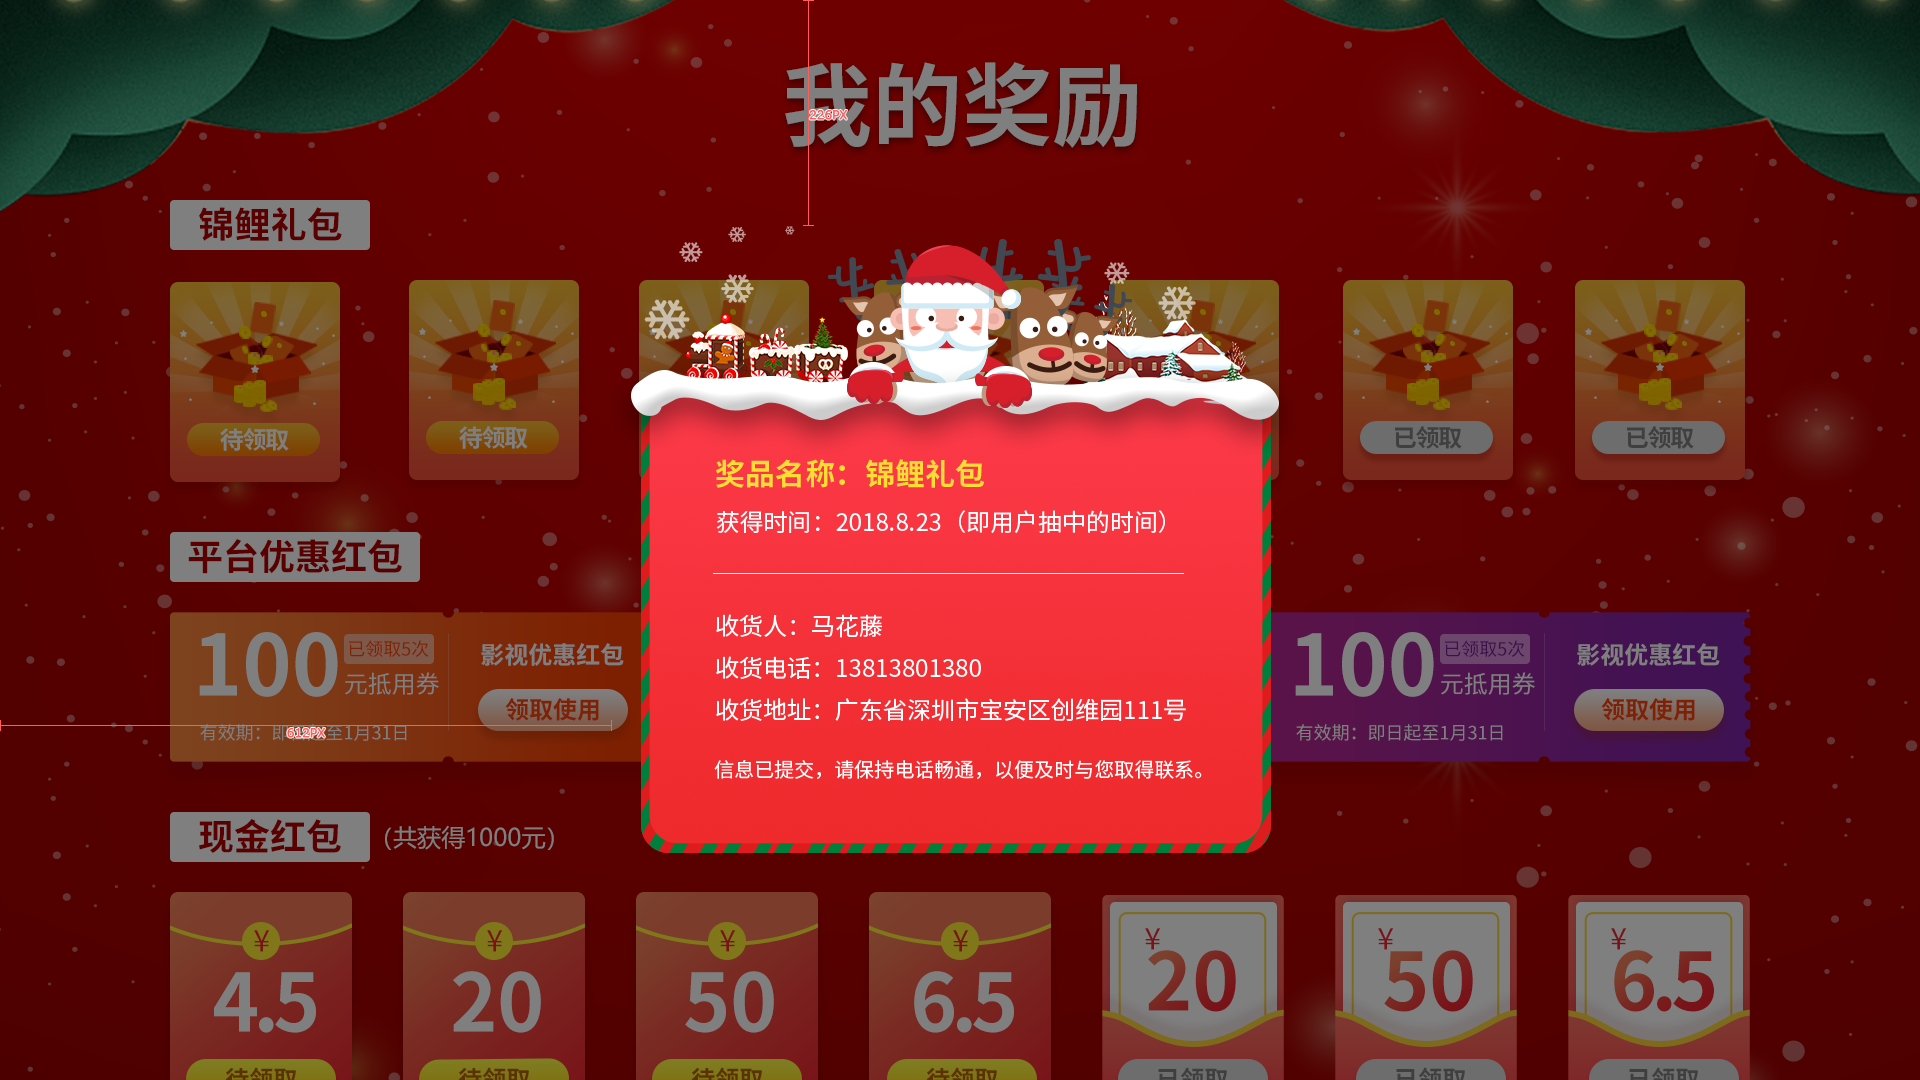
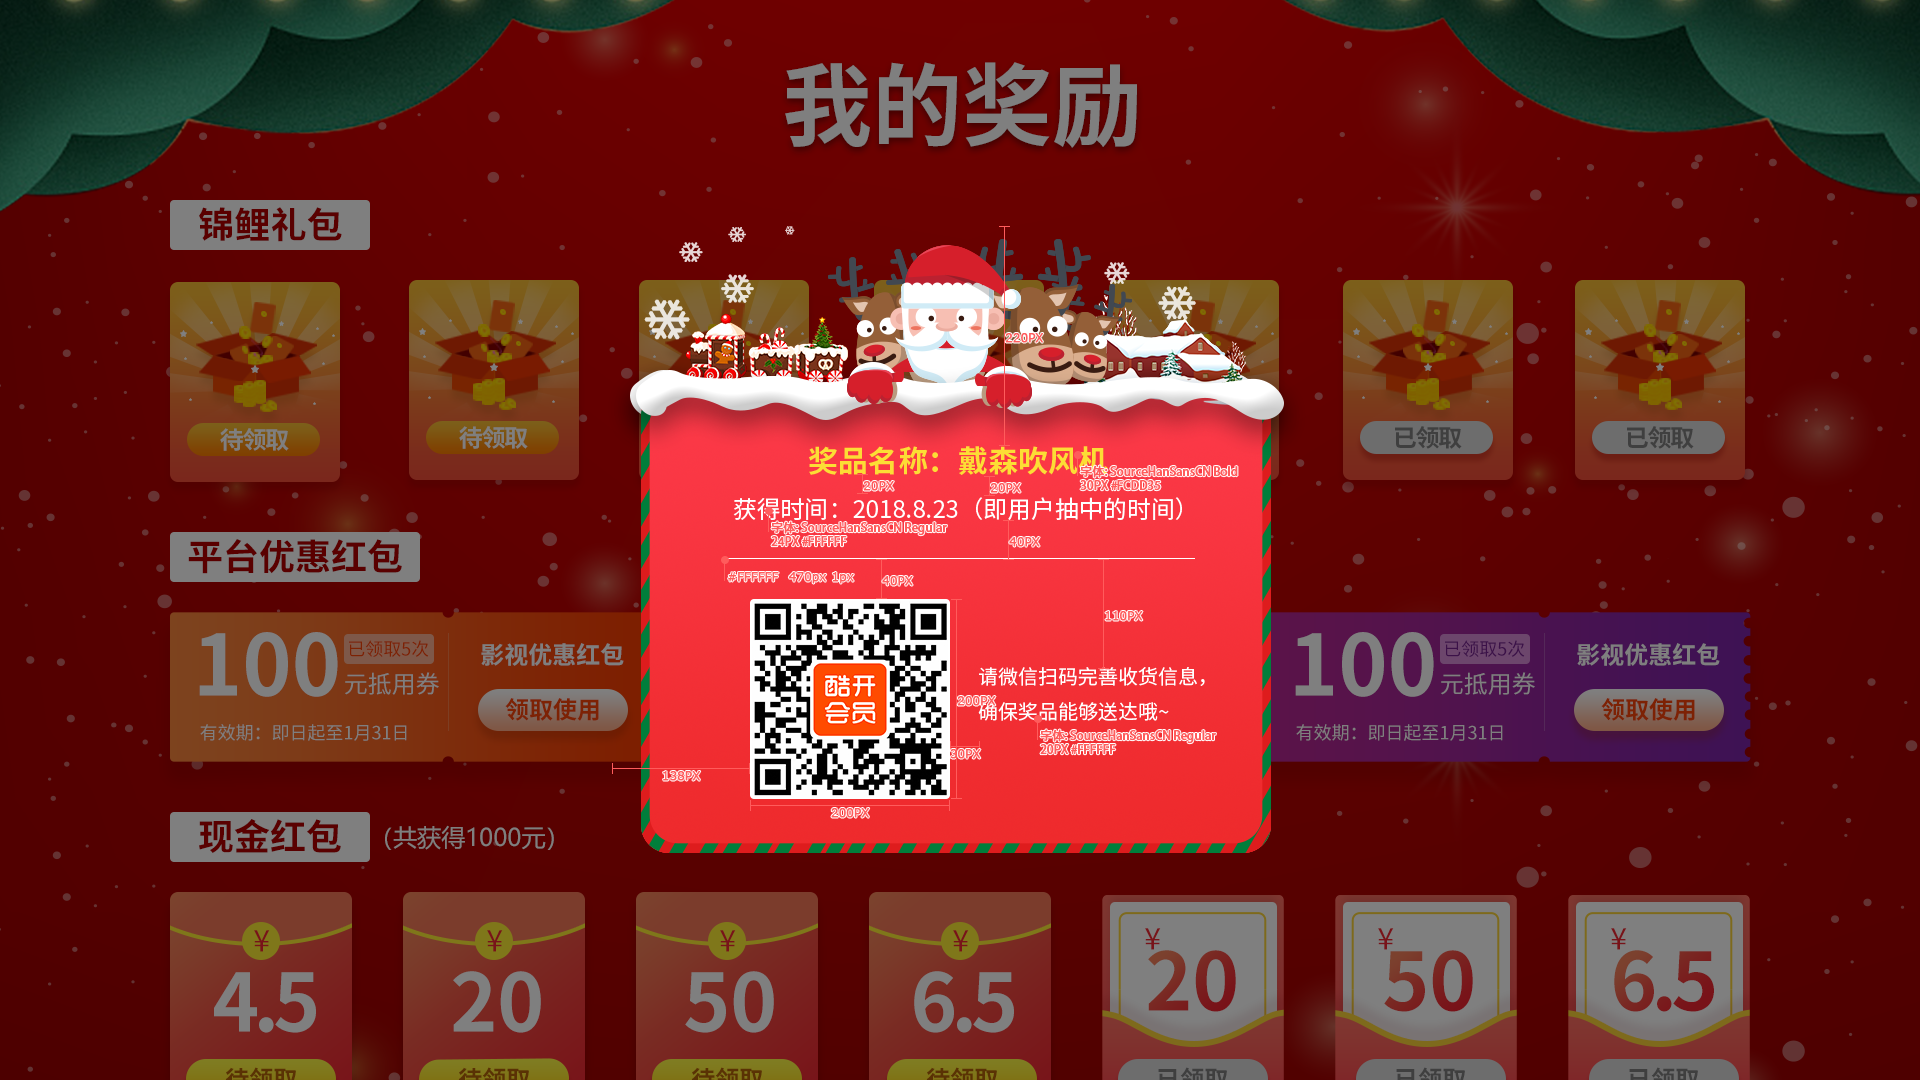
update: 2018双旦活动-我的礼物-弹窗对话框备份

diff --git a/activities/XmasNewYear2018/sourceCode/myaward.html b/activities/XmasNewYear2018/sourceCode/myaward.html
@@ -218,15 +218,36 @@
 			
 			<!--三、 弹窗对话框 start -->
 			<div id="toastDialogId" class="toastDialogClass">
-				<!--1.已领取页面-->
-				<div class="giftCollectedDialogClass">
-					<div class="giftTitleClass"><span>奖品名称: </span><span>锦鲤礼包</span></div>
-					<div class="giftTimeClass"><span>获得时间: </span><span>2018.8.23</span></div>
+				<!-- 1.1.已领取页面(有收货人信息等，用于：锦鲤，实物， ) -->
+				<div id="gitCollectedDialogAId" class="giftToastDialogClass">
+					<div class="giftTitleClass">奖品名称:&nbsp;&nbsp;<span>锦鲤礼包</span></div>
+					<div class="giftTimeClass">获得时间 : <span>2018.8.23</span></div>
 					<hr />
-					<div class="giftReceiverNameClass"><span>收货人: </span><span>马花藤</span></div>
-					<div class="giftReceiverTelClass"><span>收货电话: </span><span>13813801380</span></div>
-					<div class="giftReceiverAddrClass"><span>收货地址: </span><span>广东省深圳市宝安区创维园111号</span></div>
-					<div>信息已提交，请保持电话畅通，以便及时与您取得联系。</div>
+					<div class="giftReceiverNameClass">收货人 : <span>马花藤</span></div>
+					<div class="giftReceiverTelClass">收货电话 : <span>13813801380</span></div>
+					<div class="giftReceiverAddrClass">收货地址 : <span>广东省深圳市宝安区创维园111号</span></div>
+					<div class="giftReceiverTipClass">信息已提交，请保持电话畅通，以便及时与您取得联系。</div>
+				</div>
+				<!-- 1.2.已领取页面(有继续参与按钮，用于：红包， ) -->
+				<div id="gitCollectedDialogBId" class="giftToastDialogClass">
+					<div class="giftTitleClass">奖品名称:&nbsp;&nbsp;微信红包<span>4.5</span>元</div>
+					<div class="giftTimeClass">获得时间 : <span>2018.8.23</span></div>
+					<hr />
+					<div id="giftReceiverBtnId"></div>
+					<div class="giftReceiverTipClass">再接再厉哦~</div>
+					<div class="giftReceiverTipClass">多玩游戏还能获得大额红包</div>
+				</div>
+				<!-- 2.1.待领取页面(用于：实物 ) -->
+				<div id="gitUncollectedDialogBId" class="giftToastDialogClass">
+					<div class="giftTitleClass">奖品名称:&nbsp;&nbsp;<span>戴森吹风机</span></div>
+					<div class="giftTimeClass">获得时间 : <span>2018.8.23</span></div>
+					<hr />
+					<div class="giftReceiverDetailsClass">
+						<div class="giftReceiverQrClass"><img></img></div>
+						<div class="giftReceiverTipClass">
+							<div>请微信扫码完善收货信息,</div>
+							<div>确保奖品能够送达哦~</div>
+						</div>
 				</div>
 			</div>
 			<!-- 三、弹窗对话框 end -->

diff --git a/activities/XmasNewYear2018/sourceCode/css/myaward.css b/activities/XmasNewYear2018/sourceCode/css/myaward.css
@@ -514,8 +514,8 @@
 	font-size: 48px;
 }
 
-
 /*三、 弹窗对话框 start*/ 
+/*3.1 锦鲤-已领取*/
 .toastDialogClass {
 	position: absolute;
 	width: 1920px;
@@ -525,23 +525,78 @@
 	background-repeat: no-repeat;
 	display: none;
 }
-.giftCollectedDialogClass {
+.giftToastDialogClass {
 	position: absolute;
-	top: 50%;
-	left: 50%;
-	transform: translate(-50%,-50%);
+	top: 226px;
+	left: 607px;
 	width: 696px;
 	height: 627px;
-	padding: 220px 102px 0px 102px;
+	padding: 234px 102px 0px 107px;
 	font-family: "SourceHanSansCN", sans-serif;
 	font-size: 24px;
+	line-height: 24px;
 	color: #FFFFFF;
 	background-image: url(../images/myaward/toastBg.png);
 	background-repeat: no-repeat;
+	display: none;
+}
+.giftToastDialogClass>div{
+	margin-bottom: 20px;
+	width: 500px;
+}
+.giftReceiverTipClass {
+	margin-top: 30px;
+	font-size: 20px;
 }
 .giftTitleClass {
 	font-size: 30px;
+	height: 30px;
+	line-height: 30px;
 	color: #FCDD35;
 	font-weight: bold;
 }
-hr {margin: 40px 0;}
+hr {margin: 40px 0; width: 468px;}
+
+/*1.2.已领取页面(红包， )*/
+#gitCollectedDialogBId>div {
+	text-align: center;
+}
+#giftReceiverBtnId {
+	position: relative;
+	left: 135px;
+	background-image: url(../images/myaward/btnContinue.png);
+	width: 218px;
+	height: 68px;
+	margin-bottom: 40px;
+}
+#gitCollectedDialogBId .giftReceiverTipClass {
+	margin: 0 0 16px 0;
+}
+
+/*2.1.待领取页面(用于：实物 )*/
+#gitUncollectedDialogBId>div {
+	text-align: center;
+}
+.giftReceiverDetailsClass {
+	position: relative;
+	height: 200px;
+}
+.giftReceiverDetailsClass>div {
+	display: inline-block;
+}
+.giftReceiverQrClass {
+	position: relative;
+	width: 200px;
+	height: 200px;
+	background-color: white;
+}
+.giftReceiverQrClass img{width: 100%;height: 100%;}
+
+#gitUncollectedDialogBId .giftReceiverTipClass{
+	position: relative;
+	top: -70px;
+	left: 10px;
+	width: 250px;
+	text-align:left;
+}
+#gitUncollectedDialogBId .giftReceiverTipClass>div {margin-bottom: 20px;}
